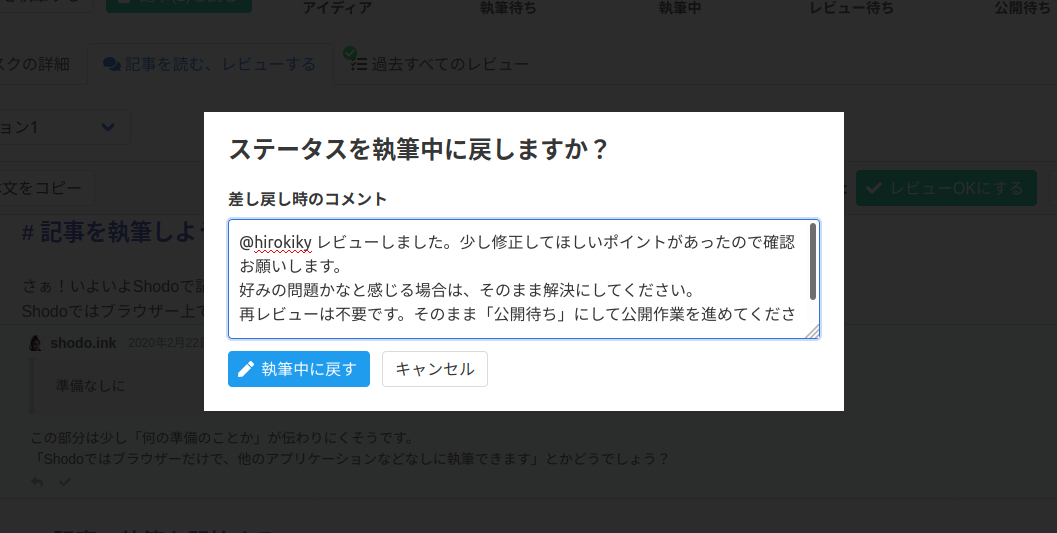
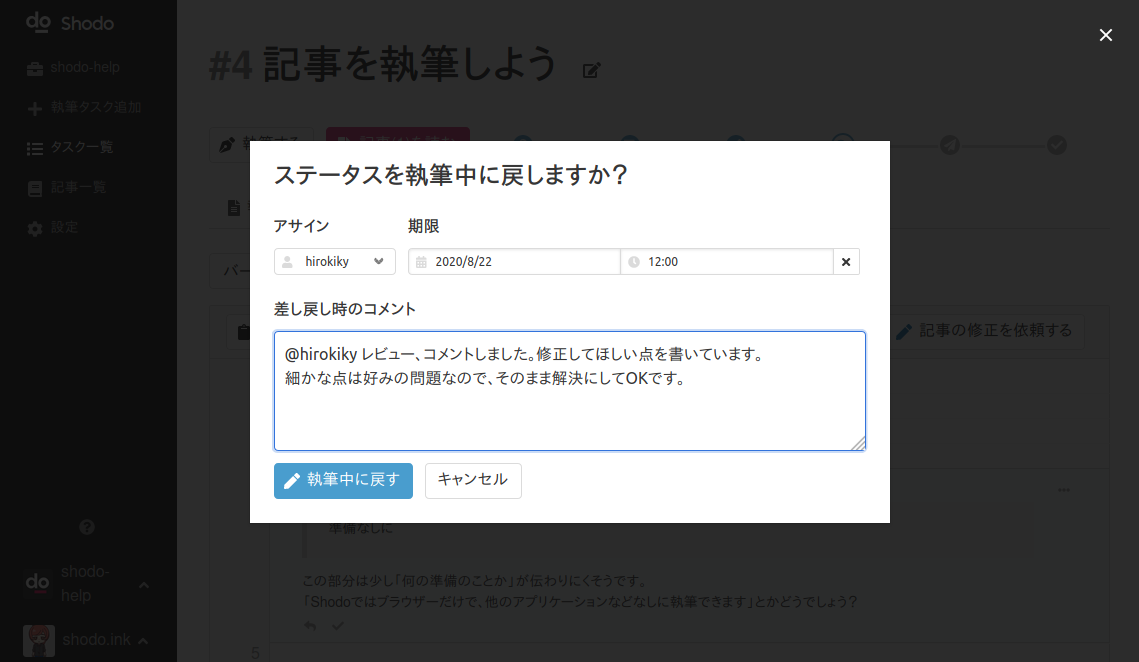
Updated screen shots for new UI

diff --git a/source/getting-started/write-a-post.md b/source/getting-started/write-a-post.md
@@ -15,7 +15,7 @@ Shodoではブラウザー上で、準備なしに記事を執筆できます。
 
 まだ執筆中としたくないけど、試しに書きたいなという場合は「そのまま執筆する」をクリックしてください。
 
-![執筆ステータスを執筆中に変更する](./_img/write_to_write.png)
+![執筆ステータスを執筆中に変更する](./_img/status_to_write.png)
 
 ## 執筆する
 
@@ -35,6 +35,15 @@ Shodoではブラウザー上で、準備なしに記事を執筆できます。
 > 詳細な機能の説明
 > 利用開始の方法（求めるアクション）
 
+### 記事の校正は自動で！
+
+Shodoでは自動で記事の校正が行われます。
+たとえば「見れる」のようなら抜き言葉は即時で赤ペンがついてくれます。
+
+日本語の表現やニュアンス、自動校正で指摘できない範囲はAI校正でチェックできます。
+利用する場合は画面右上の「AI校正」をクリックしてください。AIにより文章が校正され、文章表現の良し悪しがヒートマップで表示されます。
+ただし、AI校正は「一般的に文章を考えた場合の自然さ」をもとに判断するので、専門的な単語や特殊な表現は良くないと判断される場合があります。
+
 ### 記事が書けたらどうする？
 
 記事が書き終わったら、「記事を作成」をすることではじめてチームメンバーに記事が共有されます。
@@ -43,12 +52,14 @@ Shodoではブラウザー上で、準備なしに記事を執筆できます。
 
 ![執筆ステータスをレビュー中に変更する](./_img/write_to_review.png)
 
-ここでも記事を作成しつつ、執筆タスクのステータスを変更できます。
-レビュアーにレビューの依頼をするときは「ステータスを変えて作成する」をクリックしてください。
-「まだレビューの依頼はしないけど、記事としてまとめたいな」というときは「そのまま作成する」をクリックしてください。
+レビュアーにレビューの依頼をするときは「レビュー依頼する」をクリックしてください。
+「まだレビューの依頼はしないけど、記事としてまとめたいな」というときは「記事作成」をクリックしてください。
 
-これで、執筆タスクに設定している「レビュアー」にレビューを依頼した状態になります。執筆タスクに「レビュアー」を設定していない場合は設定しておきましょう。
-レビュアーはShodoのダッシュボード画面からレビュー依頼されている執筆タスクを確認できます。
+「レビュー依頼する」をクリックした場合、レビュアーの設定と依頼コメントを書けます。
+
+![執筆ステータスをレビュー中に変更する](./_img/write_to_review_2.png)
+
+依頼されたレビュアーは、Shodoのダッシュボード画面からレビュー依頼されている執筆タスクを確認できます。
 執筆者としては一旦ここで休憩になります。依頼されたレビューに対応する方法は次のページで説明します。
 
 ### サイドバーの説明
@@ -61,6 +72,7 @@ Shodoではブラウザー上で、準備なしに記事を執筆できます。
       <tr><th>要素</th><th>説明</th></tr>
     </thead>
     <tbody>
+        <tr><th>タスク</th><td>執筆タスクの説明や状態を確認できます</td></tr>
         <tr><th>レビュー</th><td>レビュアーからのレビュー一覧を確認できます</td></tr>
         <tr><th>画像</th><td>画像のアップロード、貼り付けができます</td></tr>
         <tr><th>文章分析</th><td>記事の単語比率や読了時間などの分析結果が見られます</td></tr>
@@ -92,5 +104,5 @@ Markdownは以下のような、文章を書くことに特化したフォーマ
 > 引用の文章
 ```
 
-Markdownは、はてなブログ、WordPross（プラグイン導入時）に使える記法です。
+Markdownは、はてなブログ、WordPress（プラグイン導入時）に使える記法です。
 HTMLに変換でき、プレーンテキストのままでも読みやすい特徴があります。

diff --git a/source/getting-started/review-a-post.md b/source/getting-started/review-a-post.md
@@ -5,7 +5,7 @@
 
 ## 記事をレビューする
 
-Shodoで記事をレビューするには、執筆タスク画面から「記事を読む、レビューする」タブをクリックします。
+Shodoで記事をレビューするには、執筆タスク画面から「レビューする」タブをクリックします。
 
 ![レビュー画面を開く](./_img/review_start.png)
 
@@ -18,6 +18,9 @@ Shodoで記事をレビューするには、執筆タスク画面から「記事
 
 記事にカーソルを合わせると、記事の各行の左に `＋` のアイコンが表示されます。
 `＋` アイコンをクリックすることで記事へのレビューコメントを残せます。
+
+![レビューの追加](./_img/review_add.png)
+
 コメントにはMarkdown形式でコメント文を書けます。
 書き終わったら「レビューする」をクリックしてレビューコメントを残しましょう。
 
@@ -34,7 +37,7 @@ Shodoで記事をレビューするには、執筆タスク画面から「記事
 ### レビューが終わってOKとする場合
 
 記事をじっくり読んでコメントができたあとは、レビューをOKとするか、記事の修正を依頼するかを選びましょう。
-レビューをOKにする場合、レビュー画面右上の「レビューOKにする」ボタンをクリックしてください。
+レビューをOKにする場合、 **レビュー画面右上の「レビューOKにする」ボタンをクリック** してください。
 以下のようにレビューをOKにするときのコメントを残す画面が表示されます。
 
 ![レビューOK](./_img/review_ok.png)
@@ -43,12 +46,14 @@ Shodoで記事をレビューするには、執筆タスク画面から「記事
 
 なにか伝えたいことがある場合は、この画面でコメントを残しつつ、レビューOKとしましょう。
 レビューOKにする場合は、記事の執筆ステータスが「レビューOK」に変更されます。
-執筆タスクの「期限」と「アサイン」を確認して、記事の公開作業をする人にアサインされているか確認しておきましょう。
+
+記事が書き終わったあとにブログ記事の公開などが必要な場合、「アサイン」や「期限」も同時に変更して、記事の公開作業を依頼しましょう。
+レビューOKの状態は「記事は書き上がったが、タスクとしてはまだ完了でない」という状態です。
 
 ### レビューを差し戻す場合
 
 記事を書き直してほしいときは、レビューコメントをしたあとに記事の修正を依頼しましょう。
-レビュー画面右上の「記事の修正を依頼する」ボタンをクリックしてください。
+**レビュー画面右上の「記事の修正を依頼する」ボタンをクリック** してください。
 以下のように記事を差し戻すときのコメントを残す画面が表示されます。
 
 ![レビューを差し戻す](./_img/review_ng.png)

diff --git a/source/getting-started/manage-status.md b/source/getting-started/manage-status.md
@@ -36,8 +36,6 @@ Shodoの執筆タスクには以下のステータスがあります。
 基本的にはShodoがステータスの変更をサジェストしてくれるので、執筆タスクを作成し、執筆、レビューと進めれば問題ありません。
 もしステータスを手動で変更したいときは、タスクの詳細画面から変更できます。ステータスを手動で変更しても特にトラブルになることはありません。
 
-![ステータス変更](_img/change_status.png)
-
 ### 書きたい記事があるときは？
 
 まず、書きたい記事があるときは「アイディア」ステータスとして執筆タスクを作ると良いでしょう。
@@ -48,16 +46,13 @@ Shodoの執筆タスクには以下のステータスがあります。
 
 ### レビューが終わったときは？
 
-執筆された記事をレビューしたあとは、レビュー画面のボタンからステータスを変更します。
-レビューがOKのときは「レビューOKにする」を、記事を修正してほしいときは「記事の修正を依頼する」をクリックしてステータスを変更してください。
+執筆された記事をレビューしたあとは、レビュー画面のボタンからステータスを変更できます。
+レビューについては後のガイドラインで詳しく説明します。
 
 ![レビュー後のステータス変更](_img/review_status.png)
-
-レビューについては後のガイドラインで詳しく説明します。
 
 ### 記事を公開し終わったときは？
 
 記事を公開し終わったあとは、ステータスを「完了」にします。
 まだWeb上に公開されていない場合でも、残タスクであるブログサービスやWordPressなどに記事を移したあとは「完了」にして良いでしょう。
-
 記事の完了については後のガイドラインで詳しく説明します。

diff --git a/source/getting-started/create-a-task.md b/source/getting-started/create-a-task.md
@@ -14,7 +14,7 @@ Shodoにおける **第一歩は「執筆タスク」を作ることです** 。
 
 ![執筆タスク作成](_img/create_task.png)
 
-それぞれ、以下のような意味になります
+ここではタスクには以下のような設定ができます。
 
 <table>
   <thead>
@@ -29,12 +29,12 @@ Shodoにおける **第一歩は「執筆タスク」を作ることです** 。
       <td>書きたい記事のタイトル。<br>管理上のタイトルなので、執筆タスクのタイトルはキャッチーにしなくて良い。</td>
     </tr>
     <tr>
-      <td>説明</td>
+      <td>記事の説明</td>
       <td>どんな記事を書きたいのかの説明。<br>書くべき内容は後述。</td>
     </tr>
     <tr>
-      <td>ステータス</td>
-      <td>記事の「状態」を管理するもの。<br>詳しくは後のページで説明。</td>
+      <td>フォルダー</td>
+      <td>執筆タスクの管理をするためのフォルダー。</td>
     </tr>
     <tr>
       <td>アサイン</td>
@@ -43,10 +43,6 @@ Shodoにおける **第一歩は「執筆タスク」を作ることです** 。
     <tr>
       <td>レビュアー</td>
       <td>記事のレビューをする役割の人。<br>記事が書けてレビューステータスになったときにコメントをする人。</td>
-    </tr>
-    <tr>
-      <td>フォルダー</td>
-      <td>執筆タスクの管理をするためのフォルダー。</td>
     </tr>
     <tr>
       <td>期限</td>

diff --git a/source/getting-started/rewrite-post.md b/source/getting-started/rewrite-post.md
@@ -40,10 +40,6 @@
 
 ![レビューに返信する](./_img/rewrite_reply.png)
 
-「返信する」をクリックすると、以下ようにレビューへの返信が送信されます。
-
-![レビューへの返信](./_img/rewrite_replied.png)
-
 レビューコメントに返信しつつ、レビューを解決にしても問題ありません。
 レビュアーからの返答が必要な場合は、レビューを解決にせず、返信をしてそのままにしておきましょう。
 
@@ -72,5 +68,4 @@
 
 ### 再レビューを依頼しない場合は？
 
-とくに再レビューを依頼しない場合は、執筆ステータスを変えずに記事を作成しましょう。
-そのあと執筆タスク画面から「レビューOK」にステータスを手動で変更することをオススメします。
+とくに再レビューを依頼しない場合は、記事作成時にレビュー依頼をせず、執筆ステータスを「レビューOK」や「完了」に変えて記事を作成しましょう。
